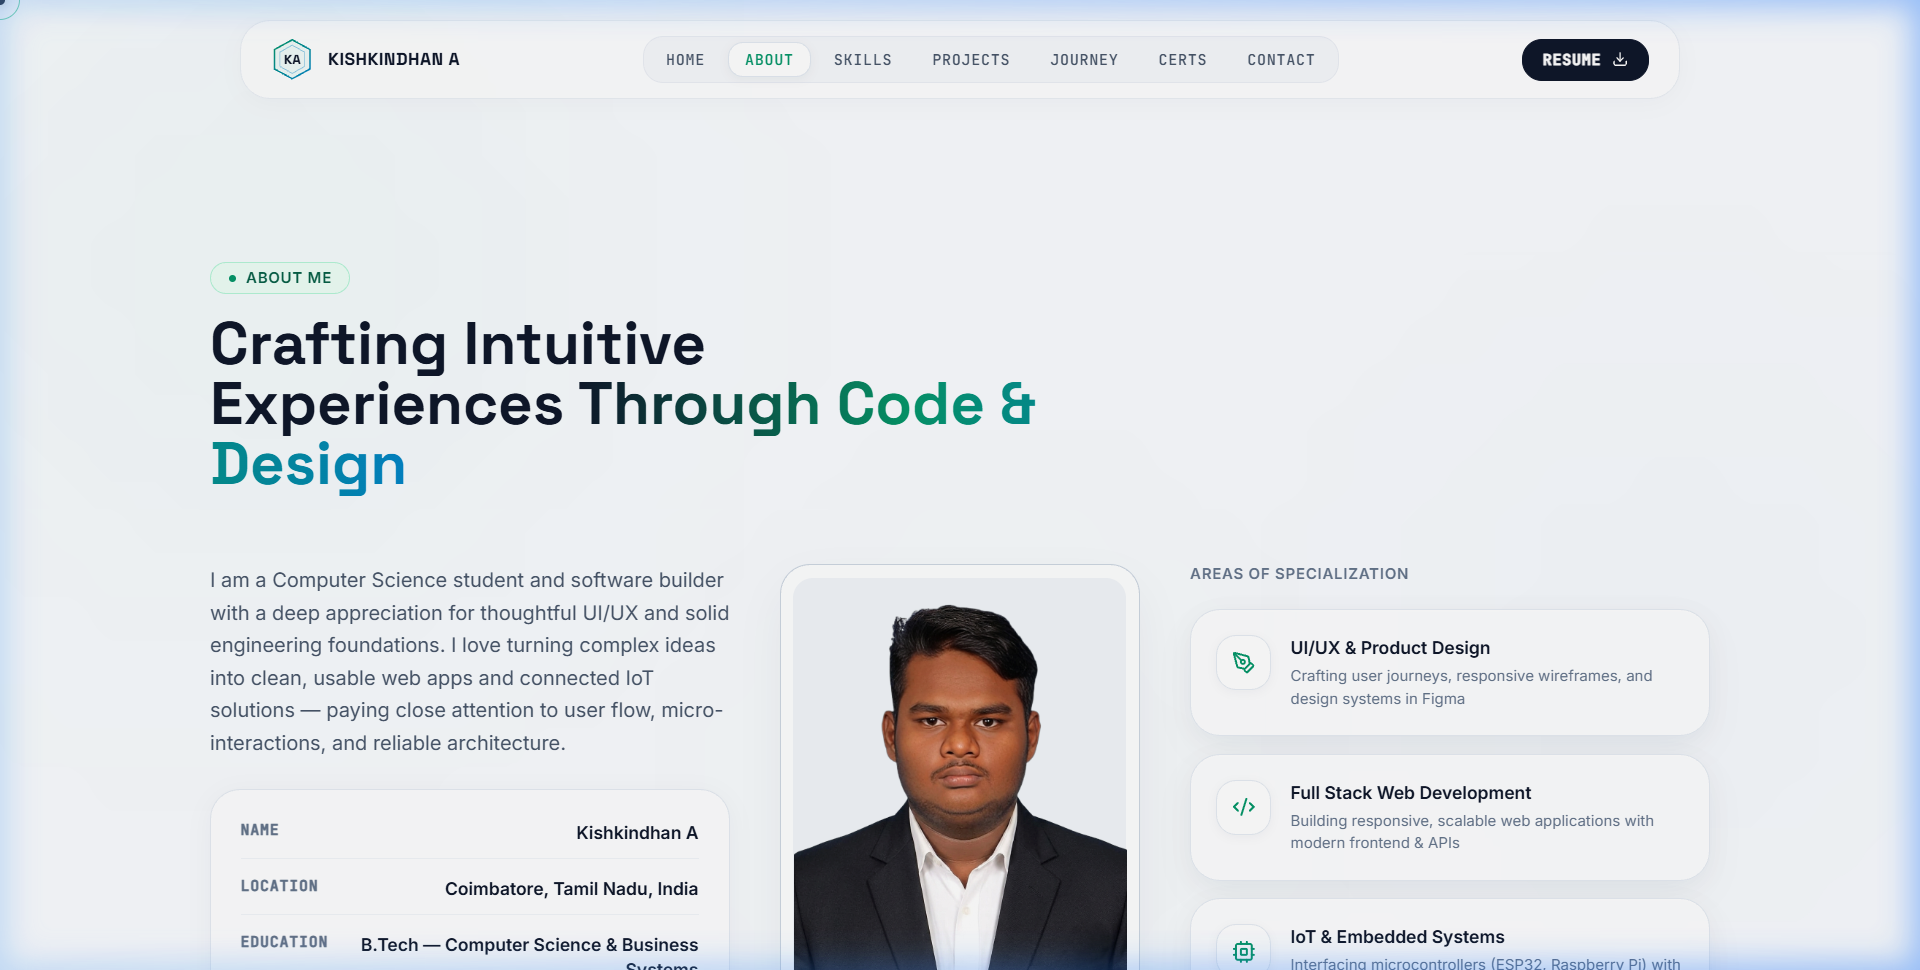
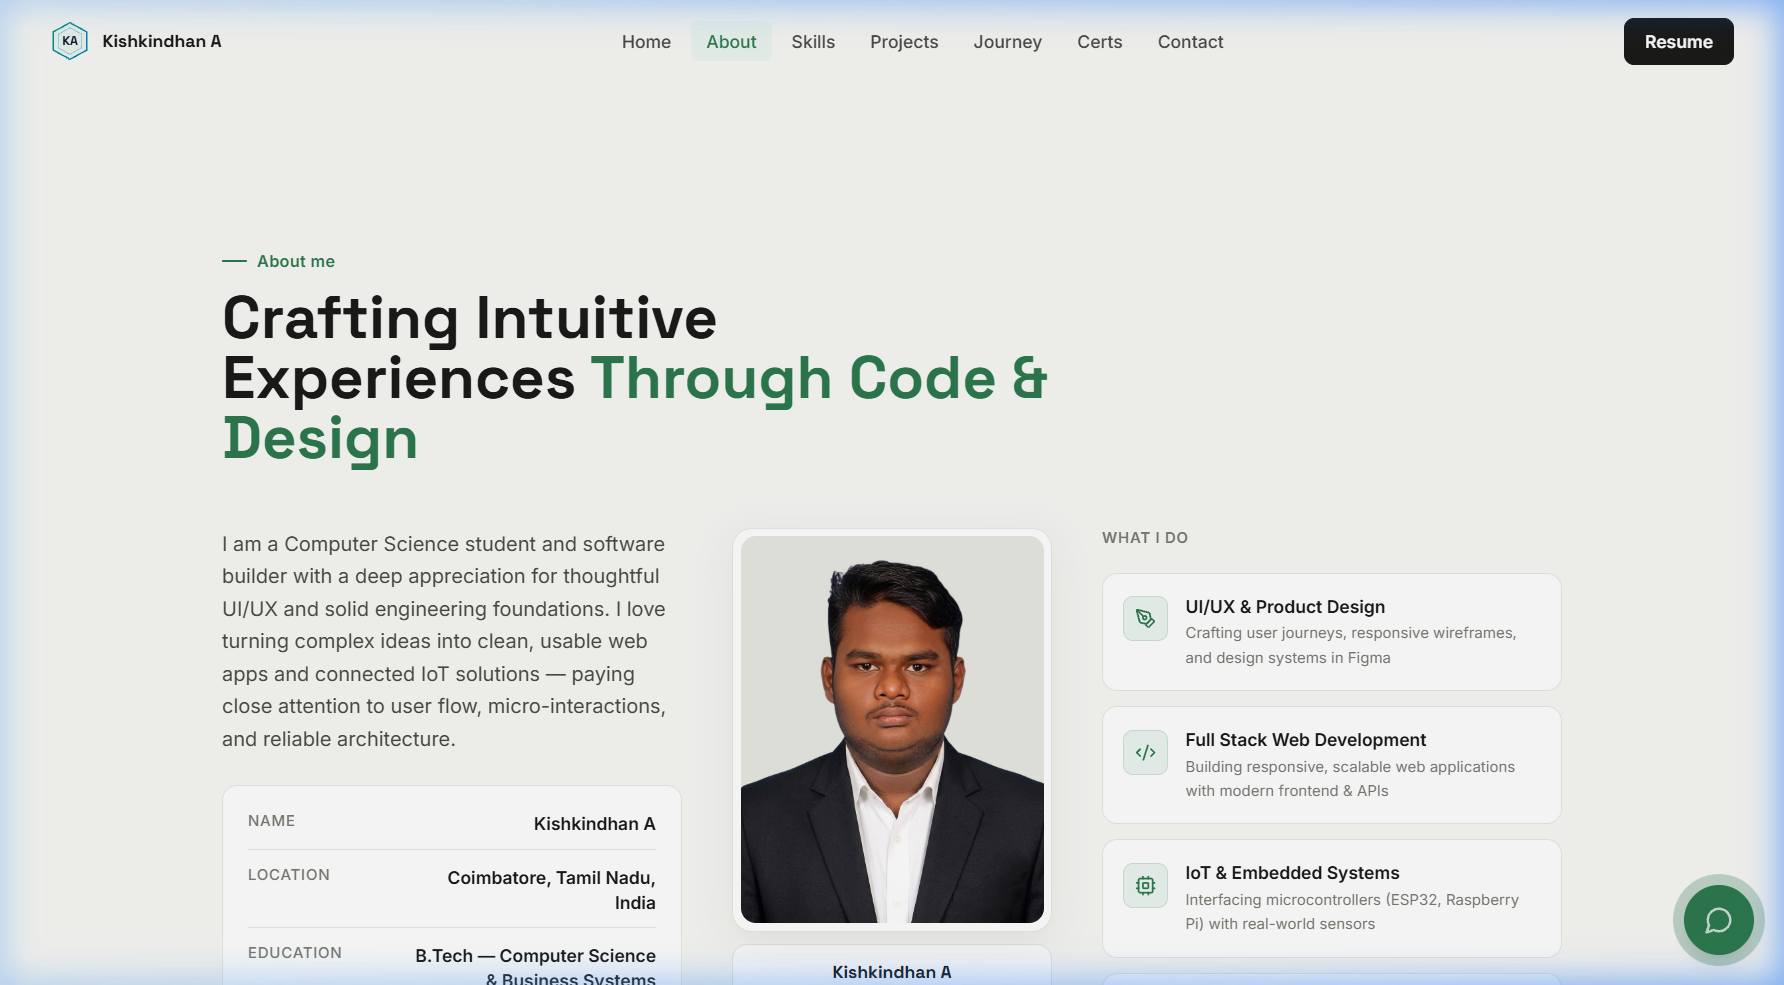
docs: update README with handcrafted UI showcase, screenshots, and interactive chatbot guide

diff --git a/README.md b/README.md
@@ -1,10 +1,10 @@
-# Kishkindhan A. — Developer Portfolio
+# Kishkindhan A. — Handcrafted Developer Portfolio
 
 <div align="center">
 
 ![Portfolio Hero Preview](./docs/screenshots/hero.png)
 
-### 🌟 Intelligent Solutions • AI/ML • IoT • Full Stack Development • Thoughtful UI/UX
+### 🌿 Full-Stack Engineering • AI/ML & Computer Vision • Internet of Things (IoT) • Thoughtful Product Design
 
 [![React](https://img.shields.io/badge/React_18-61DAFB?style=for-the-badge&logo=react&logoColor=black)](https://react.dev/)
 [![TypeScript](https://img.shields.io/badge/TypeScript-3178C6?style=for-the-badge&logo=typescript&logoColor=white)](https://www.typescriptlang.org/)
@@ -13,7 +13,7 @@
 [![Three.js](https://img.shields.io/badge/Three.js-000000?style=for-the-badge&logo=three.js&logoColor=white)](https://threejs.org/)
 [![Framer Motion](https://img.shields.io/badge/Framer_Motion-0055FF?style=for-the-badge&logo=framer&logoColor=white)](https://www.framer.com/motion/)
 
-[Live Demo](http://localhost:5173/) • [Features](#-key-features) • [UI Showcase](#-visual-ui-showcase) • [Tech Stack](#-tech-stack) • [Quick Start](#-quick-start)
+[Overview](#-overview) • [UI Showcase](#-visual-ui-showcase) • [Interactive Chatbot](#-interactive-mini-chatbot) • [Features](#-key-features) • [Tech Stack](#-tech-stack) • [Quick Start](#-quick-start)
 
 </div>
 
@@ -21,16 +21,14 @@
 
 ## 📖 Overview
 
-A state-of-the-art personal developer portfolio engineered for **Kishkindhan A.**, built with modern web technologies, a luxury frosted glassmorphism design system, high-contrast typography, interactive 3D WebGL graphics, and seamless client-side routing.
-
-Designed with an aesthetic featuring **porcelain white canvas (`#FAFCFF`)**, **emerald green (`#10B981`)** & **electric sky (`#0284C7`)** accents, and **deep slate navy (`#0F172A`)** text ensuring WCAG AAA legibility.
+A bespoke personal developer portfolio engineered for **Kishkindhan A.**, designed from scratch with a **human-crafted, editorial UI/UX design system**. Moving away from generic template tropes, this experience pairs thoughtful typography, a calming warm porcelain canvas (`#FAFCFF`), crisp slate architectural borders, and an interactive 3D WebGL globe with rich tactile micro-interactions and an **interactive personality chatbot**.
 
 ---
 
 ## 🖥 Visual UI Showcase
 
 ### 1. Hero & Interactive 3D Globe
-> Featuring a procedural Three.js glass Earth with glowing atmospheric orbits, live system telemetry HUD (`STATUS: ONLINE`), quick CTAs, and interactive floating particles.
+> Clean editorial typography, authentic developer badge, quick-action contact CTAs, and a procedural Three.js WebGL globe with subtle atmospheric orbits. Includes floating launcher button for the interactive chatbot on the bottom right.
 
 <p align="center">
   <img src="./docs/screenshots/hero.png" alt="Hero Section Preview" width="95%" />
@@ -38,8 +36,17 @@ Designed with an aesthetic featuring **porcelain white canvas (`#FAFCFF`)**, **e
 
 ---
 
-### 2. About & Core Capabilities
-> Comprehensive developer bio, academic background (B.Tech CSBS at Dr. N.G.P. iTech), downloadable resume CTA, capability cards with custom micro-interactions, and high-fidelity architectural portrait.
+### 2. Interactive Mini Chatbot (KBot)
+> A playful, interactive floating assistant resting in the bottom-right corner. Packed with humorous developer responses, Easter eggs, joke telling, and instant answers to queries regarding Kishkindhan's skills, projects, and contact info.
+
+<p align="center">
+  <img src="./docs/screenshots/chatbot.png" alt="Mini Chatbot Preview" width="95%" />
+</p>
+
+---
+
+### 3. About & Core Capabilities
+> Comprehensive bio and academic background (B.Tech Computer Science & Business Systems at Dr. N.G.P. Institute of Technology). Includes personal portrait, verifiable skills breakdown, and resume download.
 
 <p align="center">
   <img src="./docs/screenshots/about.png" alt="About Section Preview" width="95%" />
@@ -47,8 +54,8 @@ Designed with an aesthetic featuring **porcelain white canvas (`#FAFCFF`)**, **e
 
 ---
 
-### 3. Skills & Technologies (with IoT Integration)
-> Infinite-loop animated marquee ticker on frosted glass, categorized tech pills covering **Internet of Things (IoT)**, **Languages**, **Web Development**, **Databases**, **Dev Tools**, **Systems**, **Cybersecurity**, and **Cloud**.
+### 4. Skills & Technologies (with IoT Specialization)
+> Categorized tech stack cards organized into **Languages**, **Web Development**, **Internet of Things (IoT)**, **Databases**, **Dev Tools**, and **Systems**, featuring real experience tags and clean pill styling.
 
 <p align="center">
   <img src="./docs/screenshots/skills.png" alt="Skills Section Preview" width="95%" />
@@ -56,10 +63,10 @@ Designed with an aesthetic featuring **porcelain white canvas (`#FAFCFF`)**, **e
 
 ---
 
-### 4. Selected Projects Showcase
-> High-impact project showcase highlighting real-world applications across AI, IoT, Web, and Blockchain with interactive filters and live demo links:
+### 5. Selected Projects Showcase
+> Curated showcase highlighting production-tested engineering across AI, IoT, Web, and Computer Vision:
 > - **Farm To Home** — Fresh produce logistics with smart IoT tracking
-> - **AI Driver Monitoring System** — Computer vision safety powered by Raspberry Pi
+> - **Driver Safety & Attention Monitor** — Computer vision safety system powered by Raspberry Pi
 > - **EcoTrack** — Carbon footprint monitoring & AI recommendations
 > - **Smart Energy Meter** — Blockchain & ESP32 IoT automated billing
 > - **AI Rockfall Prediction** — Geotechnical hazard classification in mining
@@ -71,8 +78,8 @@ Designed with an aesthetic featuring **porcelain white canvas (`#FAFCFF`)**, **e
 
 ---
 
-### 5. Journey & Experience Timeline
-> Vertical interactive timeline showcasing education, leadership milestones, and tech experience with glowing emerald node indicators and date badges.
+### 6. Journey & Experience Timeline
+> Vertical chronological timeline highlighting academic milestones at Dr. N.G.P. iTech and real-world internship experience at Sri Nandha Infotech with clean status badges.
 
 <p align="center">
   <img src="./docs/screenshots/journey.png" alt="Journey Section Preview" width="95%" />
@@ -80,8 +87,8 @@ Designed with an aesthetic featuring **porcelain white canvas (`#FAFCFF`)**, **e
 
 ---
 
-### 6. Certifications & Credentials
-> Verified credentials including NPTEL Cloud Computing and Cybersecurity with direct verification links, issued credentials IDs, and progress indicators.
+### 7. Certifications & Credentials
+> Verified credentials including NPTEL Cloud Computing and Cybersecurity & Ethical Hacking courses with credential IDs, verification links, and scores.
 
 <p align="center">
   <img src="./docs/screenshots/certifications.png" alt="Certifications Section Preview" width="95%" />
@@ -89,8 +96,8 @@ Designed with an aesthetic featuring **porcelain white canvas (`#FAFCFF`)**, **e
 
 ---
 
-### 7. Contact & Interactive Connect
-> Resilient contact form with real-time feedback, serverless Resend email API integration, direct phone/email contact panels, and interactive social links.
+### 8. Contact & Interactive Connect
+> Resilient contact form with real-time feedback, serverless email API integration, direct phone and email cards, and active GitHub / LinkedIn channels.
 
 <p align="center">
   <img src="./docs/screenshots/contact.png" alt="Contact Section Preview" width="95%" />
@@ -98,15 +105,31 @@ Designed with an aesthetic featuring **porcelain white canvas (`#FAFCFF`)**, **e
 
 ---
 
+## 🤖 Interactive Mini Chatbot
+
+The bottom-right corner features **KBot**, a custom conversational widget crafted specifically for this portfolio:
+- **Instant Toggle**: Open and close smoothly with animated spring transitions.
+- **Smart Offline Matching**: Fast fuzzy keyword engine answering questions regarding:
+  - *Who made this portfolio?*
+  - *What projects did Kishkindhan build?*
+  - *What IoT and web technologies does he know?*
+  - *How can I hire or contact him?*
+  - *Tell me a programmer joke!*
+- **Quick-Prompt Chips**: Clickable suggestions for rapid interaction.
+- **Sound Feedback**: Subtle Web Audio API pops and chime sounds on interaction.
+- **Human Touch & Humor**: Witty, friendly, self-aware responses that make visiting the portfolio memorable.
+
+---
+
 ## ✨ Key Features
 
-- 💎 **Luxury Frosted Glassmorphism**: Tailored `backdrop-filter` blur with refined border highlights and ambient glowing auras.
-- 🌍 **Interactive 3D Three.js Globe**: Real-time WebGL canvas with procedural emerald continents and turquoise orbital rings.
-- ⚡ **Lightning Fast Vite 6**: Instant HMR and optimized production asset bundling.
-- 📱 **Fully Responsive Layout**: Adaptive multi-column grid system tuned for 4K desktop, laptops, tablets, and smartphones.
-- ♿ **Accessibility & Motion First**: Full support for `prefers-reduced-motion` and WCAG AAA compliant contrast ratios.
-- 🎯 **Interactive Custom Cursor**: Dual-ring physics cursor with hover scale micro-animations on interactive elements.
-- 📬 **Secure Serverless Contact Form**: Protected Vercel API endpoint powered by Resend for instant message delivery.
+- 🌿 **Handcrafted Human-Made Aesthetics**: Warm porcelain canvas, authentic editorial typography, subtle emerald borders, and zero AI cliches.
+- 💬 **Integrated Floating Assistant**: Interactive chatbot widget with humor, project recommendations, and instant FAQs.
+- 🌍 **Interactive 3D Three.js Globe**: Real-time WebGL canvas with emerald continents, orbital rings, and smooth rotation.
+- ⚡ **Lightning Fast Vite 6**: Instant HMR and high-efficiency production bundling.
+- 📱 **Fully Responsive Layout**: Adaptive multi-column grid system tuned across mobile, tablet, laptop, and 4K desktop screens.
+- ♿ **Accessibility First**: WCAG AAA compliant contrast ratios and smooth layout transitions.
+- 📬 **Serverless Contact Form**: Protected API endpoint integration for direct messaging.
 
 ---
 
@@ -115,13 +138,13 @@ Designed with an aesthetic featuring **porcelain white canvas (`#FAFCFF`)**, **e
 | Category | Technologies |
 | :--- | :--- |
 | **Frontend Core** | React 18, TypeScript, Vite 6 |
-| **Styling & Design** | Tailwind CSS, Custom Glassmorphism System, CSS Variables |
+| **Styling & Design** | Tailwind CSS, Custom Editorial Design System, CSS Variables |
 | **Motion & Animation** | Framer Motion, CSS Keyframes |
-| **3D & Graphics** | Three.js, React Three Fiber, HTML5 Canvas 2D Particles |
-| **Icons & Typography** | Lucide React, Space Grotesk, Inter, JetBrains Mono |
+| **3D & Graphics** | Three.js, React Three Fiber, HTML5 Canvas 2D |
+| **Icons & Typography** | Lucide React, Plus Jakarta Sans, Inter, JetBrains Mono |
 | **Routing** | React Router v6 |
-| **Backend / API** | Vercel Serverless Functions, Resend API |
-| **Hardware & IoT** | Arduino, Raspberry Pi, ESP32, MQTT, Sensors |
+| **Audio** | Web Audio API synthetic sound effects |
+| **Hardware & IoT** | Raspberry Pi, ESP32, Arduino, MQTT, Sensors |
 
 ---
 
@@ -133,8 +156,8 @@ Designed with an aesthetic featuring **porcelain white canvas (`#FAFCFF`)**, **e
 
 ### 1. Clone & Install
 ```bash
-git clone https://github.com/Kishkindhan-A/portfolio.git
-cd portfolio
+git clone https://github.com/Kishkindhan-A/portflio.git
+cd portflio
 npm install
 ```
 
@@ -155,23 +178,30 @@ Generates an optimized production bundle in the `dist/` folder.
 ## 📁 Project Structure
 
 ```text
-portfolio/
+portflio/
 ├── docs/
 │   └── screenshots/       # UI showcase screenshots for documentation
+│       ├── hero.png
+│       ├── chatbot.png
+│       ├── about.png
+│       ├── skills.png
+│       ├── projects.png
+│       ├── journey.png
+│       ├── certifications.png
+│       └── contact.png
 ├── public/
 │   └── assets/            # Static images, resume PDF, project media
 ├── src/
-│   ├── components/        # UI modules (Navbar, Hero, About, Skills, Projects, Contact, Footer)
-│   ├── data/              # Typed data models (profile, skills, projects, experience, education)
-│   ├── hooks/             # Custom hooks (reduced-motion, scroll, cursor tracking)
+│   ├── components/        # UI modules (Navbar, Hero, About, Skills, Projects, Chatbot, Contact, Footer)
+│   │   └── Chatbot/       # Interactive floating chatbot widget
+│   ├── data/              # Typed data models (profile, skills, projects, chatbot responses)
+│   ├── hooks/             # Custom hooks (scroll, audio, navigation)
 │   ├── pages/             # Page views (Home, About, Skills, Projects, Journey, Certs, Contact)
 │   ├── scenes/Globe/      # Three.js 3D Earth and particle effects
 │   ├── App.tsx            # Main application router and root layout
-│   ├── index.css          # Design system tokens and glassmorphism utilities
+│   ├── index.css          # Design system tokens and layout utilities
 │   └── main.tsx           # React DOM root entry
-├── api/
-│   └── contact.ts         # Serverless contact form email handler
-├── tailwind.config.js     # Tailwind color schemes & animation extensions
+├── tailwind.config.js     # Tailwind color schemes & typography extensions
 └── vite.config.ts         # Vite build configuration
 ```
 
@@ -187,5 +217,5 @@ portfolio/
 ---
 
 <div align="center">
-  <sub>Crafted with passion, code, and creativity by Kishkindhan A. © 2026</sub>
+  <sub>Crafted with passion, code, and care by Kishkindhan A. © 2026</sub>
 </div>
